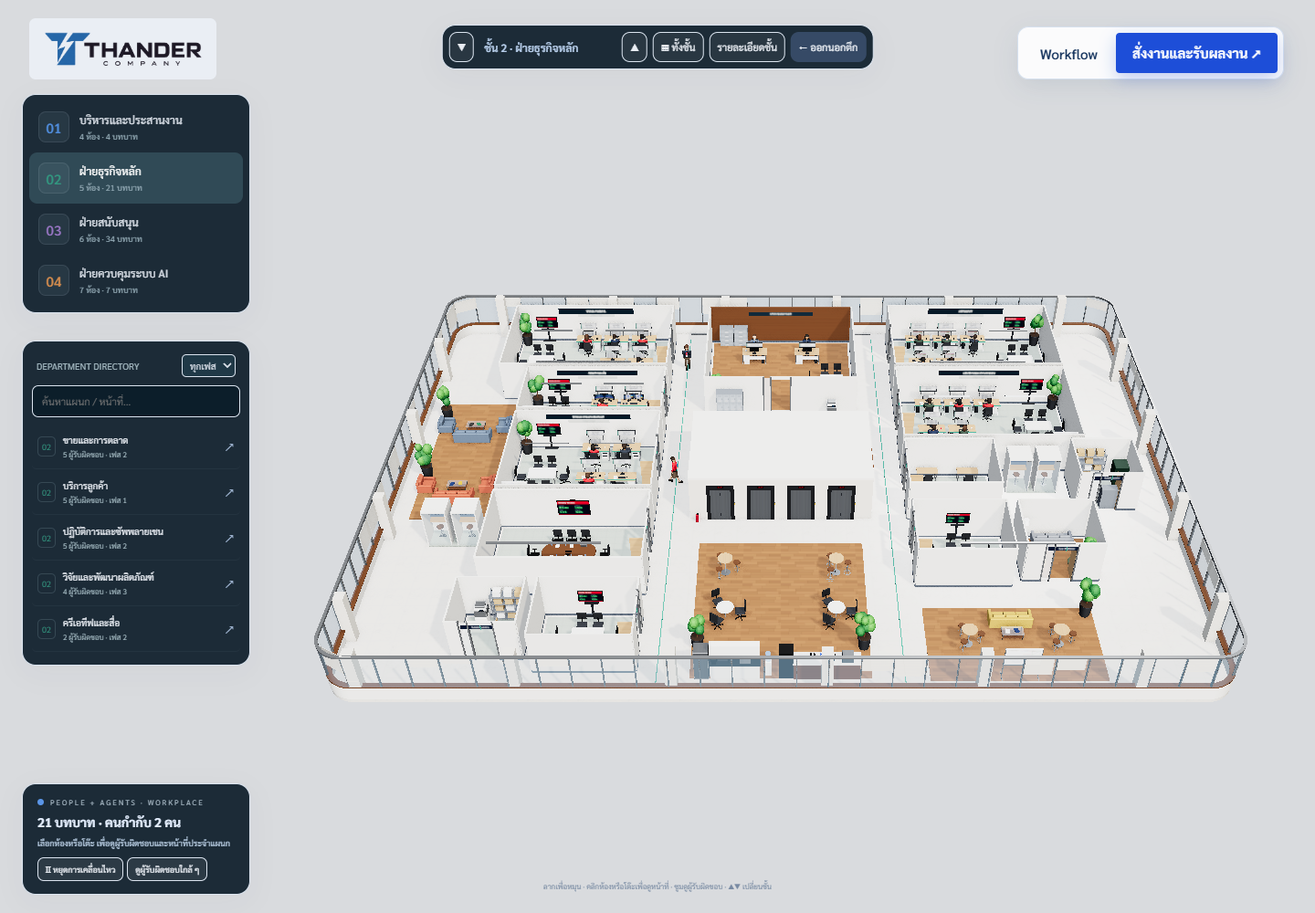
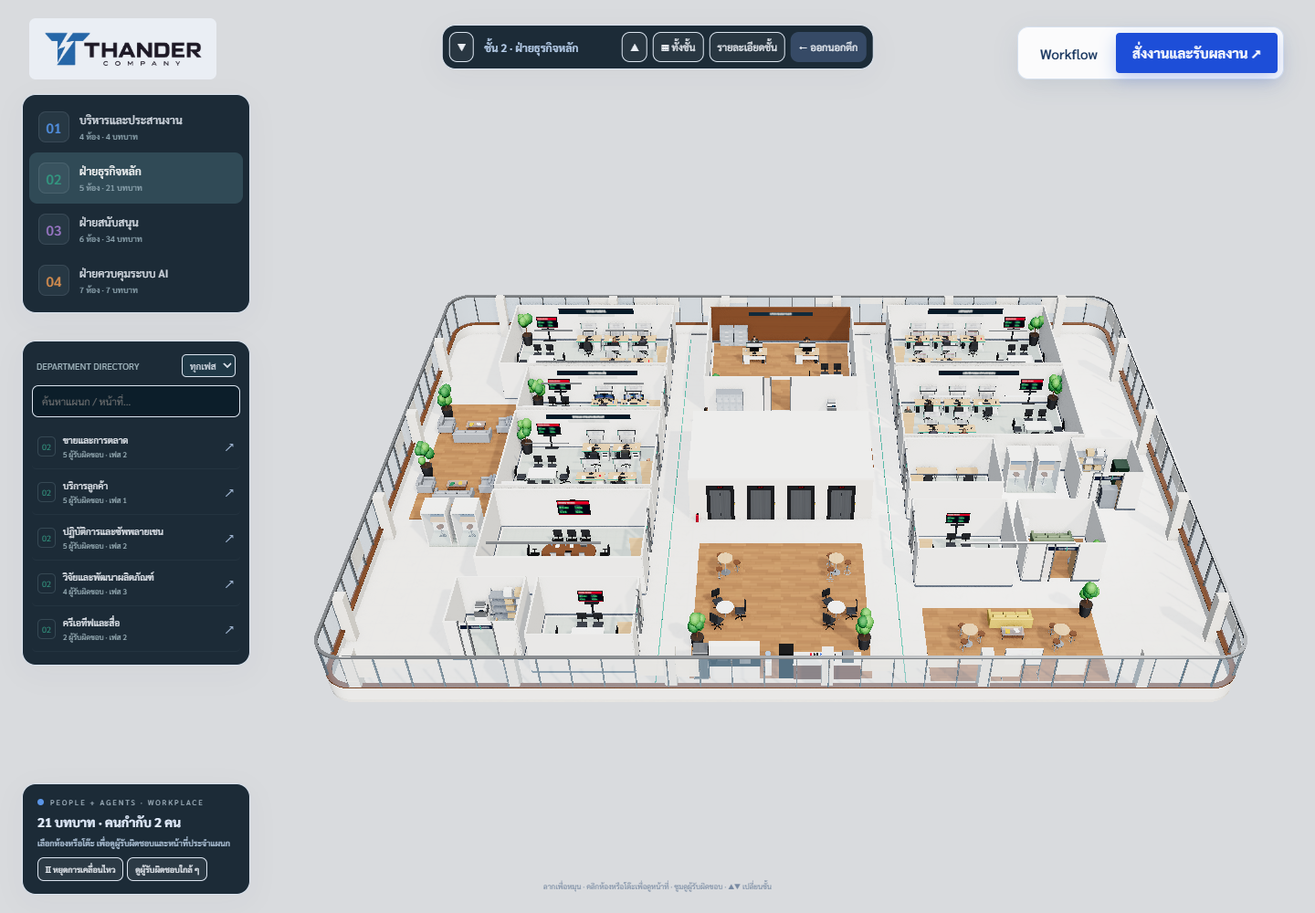
Show realistic human staff in THANDER campus

diff --git a/Portfolio.html b/Portfolio.html
@@ -3439,13 +3439,13 @@ a:focus-visible, button:focus-visible, input:focus-visible { outline: 2px solid 
         <!-- Slide 6: THANDER Company -->
         <div class="proj-slide" style="min-width:100%;overflow-y:auto;max-height:calc(90vh - 130px);">
           <div style="width:100%;aspect-ratio:600/225;background:#172d4c;overflow:hidden;position:relative;">
-            <img src="images/projects/thander-company.png" width="1440" height="1000" loading="lazy" alt="THANDER Company — พนักงาน 3D แบบเกม อาคารมีผิววัสดุ ต้นไม้ รถยนต์ และถนนที่มีมิติ" style="width:100%;height:100%;object-fit:cover;object-position:center 47%;">
+            <img src="images/projects/thander-company.png" width="1440" height="1000" loading="lazy" alt="THANDER Company — พนักงานโมเดลคน 3D อาคารมีผิววัสดุ ต้นไม้ รถยนต์ และถนนที่มีมิติ" style="width:100%;height:100%;object-fit:cover;object-position:center 47%;">
             <span style="position:absolute;bottom:12px;left:16px;background:#152b32ed;padding:6px 10px;border-radius:6px;font-size:0.6rem;letter-spacing:0.1em;color:#c5daff;">4 FLOORS · 12 DEPARTMENTS · 66 ROLES</span>
           </div>
           <div style="padding:1.75rem;">
             <span style="display:inline-block;font-size:0.68rem;font-weight:700;letter-spacing:0.12em;color:#93bfff;border:1px solid #93bfff44;border-radius:99px;padding:0.25rem 0.75rem;margin-bottom:1rem;">3D Campus · Workflow · CEO Workspace</span>
             <h3 class="bento-title" style="margin-bottom:0.65rem;">THANDER Company</h3>
-            <p style="font-size:0.9rem;line-height:1.85;color:rgba(248,250,252,0.72);margin:0 0 1.25rem;">สำนักงานใหญ่ 3D ออกแบบใหม่ระดับบริษัทชั้นนำ 4 ชั้น 12 ฝ่าย 66 บทบาท ขนาดห้องตามมาตรฐานออฟฟิศจริง มีล็อบบี้ ห้องประชุมชั้นละห้อง (12/8/6 ที่นั่ง) ผนังห้องและผนังอาคารแบบทึบ Phone Booth และ Café ทุกชั้น พนักงานเดินไปมาระหว่างแผนกตลอดเวลา และหน้าแรกมีคนเดินเข้า–ออกอาคาร พนักงานทุกคนมีชื่อและชื่อเล่น (สมมติ) บนป้ายตั้งสองหน้าขนาดใหญ่ ตัวละคร 3D รูปทรงแบบเกม มีรูปหน้า กราม ทรงผม ปกเสื้อ สูท มือ รองเท้า และบัตรพนักงานสีน้ำเงิน พร้อมต้นไม้พุ่มหลายชั้นที่มีกิ่งและใบ รถตัวถังโค้งพร้อมล้อ กระจก และไฟ ถนนแอสฟัลต์มีขอบทางและท่อระบายน้ำ ผิวหิน คอนกรีต ไม้ หญ้า และกระจกอาคารมีรายละเอียด แสงและเงาช่วยแสดงความลึก และมีบทสนทนาขึ้นเป็นข้อความทุกครั้งที่เดินมารับหรือส่งงานกับ CEO พร้อมคติ “คิดให้ไกล สร้างให้จริง ก้าวสู่อนาคต” ปรับอาคารเป็น 44×32 เมตร ห้องและโต๊ะมีขนาดตามจำนวนคน เพิ่มฝ่ายครีเอทีฟและสื่อชั้น 2 พร้อมกราฟิกดีไซเนอร์และนักตัดต่อวิดีโอ มีโต๊ะ จอออกแบบและไทม์ไลน์ประจำตัว พับกรอบรายละเอียดเพื่อเห็นผังภายในครบทุกชั้น เปิดดูแผนกและหน้าที่ได้เมื่อต้องการ มีคู่มือขั้นตอนการทำงานแบบทางการ 8 หัวข้อ (สถานะงาน หน้าที่ทุกฝ่าย วิธีเขียนโจทย์ แบบทดสอบ) และไดอะแกรม SVG อธิบายการทำงาน มีระบบฝากอนุมัติให้ผู้รักษาการ (G-01) ใช้ AI ตรวจและอนุมัติงานทั่วไปแทนเมื่อ CEO ไม่อยู่ โดยงานสำคัญ 7 เรื่องและงานกฎหมายยังรอ CEO และ CEO ยกเลิกการอนุมัติแทนได้ทุกฝ่าย ห้อง CEO THANDER ชั้น 1 มี CEO ประจำห้องเพียงคนเดียว เมื่อสั่งงาน ตัวแทนแผนกเดินผ่านทางเดินและลิฟต์มารับโจทย์แล้วกลับโต๊ะ เมื่อผลงานพร้อมตรวจจะกลับมานำเสนอ พร้อมเปิดคำตอบและไฟล์ให้ CEO ตรวจรับ มีปุ่มลองฉากตัวอย่างโดยไม่เรียก AI เชื่อมพื้นที่ทำงานส่วนตัว มีตัวเลขสรุป ค้นหา กรอง ลบงาน และกู้คืนจากถังขยะ สั่งงานครีเอทีฟได้เป็นแบบกราฟิก HTML, Storyboard และแผนตัดต่อ (ยังไม่เรนเดอร์ MP4) พร้อมสั่งงาน Claude Opus 5.5 ขอแก้ไข ตรวจรับ และดาวน์โหลดไฟล์ภาษาไทยสำหรับ Excel กำหนดวันรับงานแบบวัน/เดือน/ปี พ.ศ. เช่น 21/10/2569 แนบเอกสารอ้างอิงสูงสุด 3 ไฟล์ รวม 10 MB ผ่านพื้นที่ส่วนตัว พร้อมแสดงขนาดและความคืบหน้า มีตัวอย่างแผนคอนเทนต์ 7 วันให้ทดลองโดยไม่ใช้ AI ส่วนงาน AI จริงใช้โควต้า Free Tier ของโปรเจกต์ Google ที่ไม่เปิด Billing และไม่สลับไป OpenAI</p>
+            <p style="font-size:0.9rem;line-height:1.85;color:rgba(248,250,252,0.72);margin:0 0 1.25rem;">สำนักงานใหญ่ 3D ออกแบบใหม่ระดับบริษัทชั้นนำ 4 ชั้น 12 ฝ่าย 66 บทบาท ขนาดห้องตามมาตรฐานออฟฟิศจริง มีล็อบบี้ ห้องประชุมชั้นละห้อง (12/8/6 ที่นั่ง) ผนังห้องและผนังอาคารแบบทึบ Phone Booth และ Café ทุกชั้น พนักงานเดินไปมาระหว่างแผนกตลอดเวลา และหน้าแรกมีคนเดินเข้า–ออกอาคาร พนักงานทุกคนมีชื่อและชื่อเล่น (สมมติ) บนป้ายตั้งสองหน้าขนาดใหญ่ พนักงานใช้โมเดลคน 3D แบบมีโครงกระดูกและผิวต่อเนื่อง มีสรีระ ใบหน้า ผิวหนัง ทรงผม สูท มือและรองเท้า จาก Microsoft Rocketbox (MIT) ตัวนั่งและตัวเดินคงรูปลักษณ์คนเดียวกัน พร้อมต้นไม้พุ่มหลายชั้นที่มีกิ่งและใบ รถตัวถังโค้งพร้อมล้อ กระจก และไฟ ถนนแอสฟัลต์มีขอบทางและท่อระบายน้ำ ผิวหิน คอนกรีต ไม้ หญ้า และกระจกอาคารมีรายละเอียด แสงและเงาช่วยแสดงความลึก และมีบทสนทนาขึ้นเป็นข้อความทุกครั้งที่เดินมารับหรือส่งงานกับ CEO พร้อมคติ “คิดให้ไกล สร้างให้จริง ก้าวสู่อนาคต” ปรับอาคารเป็น 44×32 เมตร ห้องและโต๊ะมีขนาดตามจำนวนคน เพิ่มฝ่ายครีเอทีฟและสื่อชั้น 2 พร้อมกราฟิกดีไซเนอร์และนักตัดต่อวิดีโอ มีโต๊ะ จอออกแบบและไทม์ไลน์ประจำตัว พับกรอบรายละเอียดเพื่อเห็นผังภายในครบทุกชั้น เปิดดูแผนกและหน้าที่ได้เมื่อต้องการ มีคู่มือขั้นตอนการทำงานแบบทางการ 8 หัวข้อ (สถานะงาน หน้าที่ทุกฝ่าย วิธีเขียนโจทย์ แบบทดสอบ) และไดอะแกรม SVG อธิบายการทำงาน มีระบบฝากอนุมัติให้ผู้รักษาการ (G-01) ใช้ AI ตรวจและอนุมัติงานทั่วไปแทนเมื่อ CEO ไม่อยู่ โดยงานสำคัญ 7 เรื่องและงานกฎหมายยังรอ CEO และ CEO ยกเลิกการอนุมัติแทนได้ทุกฝ่าย ห้อง CEO THANDER ชั้น 1 มี CEO ประจำห้องเพียงคนเดียว เมื่อสั่งงาน ตัวแทนแผนกเดินผ่านทางเดินและลิฟต์มารับโจทย์แล้วกลับโต๊ะ เมื่อผลงานพร้อมตรวจจะกลับมานำเสนอ พร้อมเปิดคำตอบและไฟล์ให้ CEO ตรวจรับ มีปุ่มลองฉากตัวอย่างโดยไม่เรียก AI เชื่อมพื้นที่ทำงานส่วนตัว มีตัวเลขสรุป ค้นหา กรอง ลบงาน และกู้คืนจากถังขยะ สั่งงานครีเอทีฟได้เป็นแบบกราฟิก HTML, Storyboard และแผนตัดต่อ (ยังไม่เรนเดอร์ MP4) พร้อมสั่งงาน Claude Opus 5.5 ขอแก้ไข ตรวจรับ และดาวน์โหลดไฟล์ภาษาไทยสำหรับ Excel กำหนดวันรับงานแบบวัน/เดือน/ปี พ.ศ. เช่น 21/10/2569 แนบเอกสารอ้างอิงสูงสุด 3 ไฟล์ รวม 10 MB ผ่านพื้นที่ส่วนตัว พร้อมแสดงขนาดและความคืบหน้า มีตัวอย่างแผนคอนเทนต์ 7 วันให้ทดลองโดยไม่ใช้ AI ส่วนงาน AI จริงใช้โควต้า Free Tier ของโปรเจกต์ Google ที่ไม่เปิด Billing และไม่สลับไป OpenAI</p>
             <div style="display:flex;flex-wrap:wrap;gap:0.4rem;margin-bottom:1.5rem;">
               <span style="font-size:0.7rem;padding:0.25rem 0.7rem;border:1px solid #93bfff4d;color:#93bfff;border-radius:99px;">Three.js</span><span style="font-size:0.7rem;padding:0.25rem 0.7rem;border:1px solid #93bfff4d;color:#93bfff;border-radius:99px;">Claude Opus 5.5</span><span style="font-size:0.7rem;padding:0.25rem 0.7rem;border:1px solid #93bfff4d;color:#93bfff;border-radius:99px;">Vercel Functions</span><span style="font-size:0.7rem;padding:0.25rem 0.7rem;border:1px solid #93bfff4d;color:#93bfff;border-radius:99px;">Private Blob</span>
             </div>
@@ -3467,7 +3467,7 @@ a:focus-visible, button:focus-visible, input:focus-visible { outline: 2px solid 
               <a href="images/projects/thander-floor-plan.png" target="_blank" rel="noopener" style="color:#93bfff;font-size:0.82rem;">ดูผังชั้นขนาดห้องจริง ↗</a>
               <a href="images/projects/thander-ceo-office.png" target="_blank" rel="noopener" style="color:#93bfff;font-size:0.82rem;">ดูห้อง CEO ใหม่ ↗</a>
               <a href="images/projects/thander-nameplates.png" target="_blank" rel="noopener" style="color:#93bfff;font-size:0.82rem;">ดูป้ายชื่อโต๊ะแบบใหม่ ↗</a>
-              <a href="images/projects/thander-staff-sculpted.png" target="_blank" rel="noopener" style="color:#93bfff;font-size:0.82rem;">ดูพนักงาน 3D รูปทรงใหม่ ↗</a>
+              <a href="images/projects/thander-staff-human.png" target="_blank" rel="noopener" style="color:#93bfff;font-size:0.82rem;">ดูโมเดลพนักงานชุดใหม่ ↗</a>
               <a href="images/projects/thander-landscape-detailed.png" target="_blank" rel="noopener" style="color:#93bfff;font-size:0.82rem;">ดูต้นไม้ รถยนต์ และถนน 3D ↗</a>
               <a href="images/projects/thander-visit-dialogue.png" target="_blank" rel="noopener" style="color:#93bfff;font-size:0.82rem;">ดูบทสนทนาตอนรับ–ส่งงาน ↗</a>
               <a href="images/projects/thander-staff-names.png" target="_blank" rel="noopener" style="color:#93bfff;font-size:0.82rem;">ดูภาพป้ายชื่อพนักงาน ↗</a>

diff --git a/index.html b/index.html
@@ -3439,13 +3439,13 @@ a:focus-visible, button:focus-visible, input:focus-visible { outline: 2px solid 
         <!-- Slide 6: THANDER Company -->
         <div class="proj-slide" style="min-width:100%;overflow-y:auto;max-height:calc(90vh - 130px);">
           <div style="width:100%;aspect-ratio:600/225;background:#172d4c;overflow:hidden;position:relative;">
-            <img src="images/projects/thander-company.png" width="1440" height="1000" loading="lazy" alt="THANDER Company — พนักงาน 3D แบบเกม อาคารมีผิววัสดุ ต้นไม้ รถยนต์ และถนนที่มีมิติ" style="width:100%;height:100%;object-fit:cover;object-position:center 47%;">
+            <img src="images/projects/thander-company.png" width="1440" height="1000" loading="lazy" alt="THANDER Company — พนักงานโมเดลคน 3D อาคารมีผิววัสดุ ต้นไม้ รถยนต์ และถนนที่มีมิติ" style="width:100%;height:100%;object-fit:cover;object-position:center 47%;">
             <span style="position:absolute;bottom:12px;left:16px;background:#152b32ed;padding:6px 10px;border-radius:6px;font-size:0.6rem;letter-spacing:0.1em;color:#c5daff;">4 FLOORS · 12 DEPARTMENTS · 66 ROLES</span>
           </div>
           <div style="padding:1.75rem;">
             <span style="display:inline-block;font-size:0.68rem;font-weight:700;letter-spacing:0.12em;color:#93bfff;border:1px solid #93bfff44;border-radius:99px;padding:0.25rem 0.75rem;margin-bottom:1rem;">3D Campus · Workflow · CEO Workspace</span>
             <h3 class="bento-title" style="margin-bottom:0.65rem;">THANDER Company</h3>
-            <p style="font-size:0.9rem;line-height:1.85;color:rgba(248,250,252,0.72);margin:0 0 1.25rem;">สำนักงานใหญ่ 3D ออกแบบใหม่ระดับบริษัทชั้นนำ 4 ชั้น 12 ฝ่าย 66 บทบาท ขนาดห้องตามมาตรฐานออฟฟิศจริง มีล็อบบี้ ห้องประชุมชั้นละห้อง (12/8/6 ที่นั่ง) ผนังห้องและผนังอาคารแบบทึบ Phone Booth และ Café ทุกชั้น พนักงานเดินไปมาระหว่างแผนกตลอดเวลา และหน้าแรกมีคนเดินเข้า–ออกอาคาร พนักงานทุกคนมีชื่อและชื่อเล่น (สมมติ) บนป้ายตั้งสองหน้าขนาดใหญ่ ตัวละคร 3D รูปทรงแบบเกม มีรูปหน้า กราม ทรงผม ปกเสื้อ สูท มือ รองเท้า และบัตรพนักงานสีน้ำเงิน พร้อมต้นไม้พุ่มหลายชั้นที่มีกิ่งและใบ รถตัวถังโค้งพร้อมล้อ กระจก และไฟ ถนนแอสฟัลต์มีขอบทางและท่อระบายน้ำ ผิวหิน คอนกรีต ไม้ หญ้า และกระจกอาคารมีรายละเอียด แสงและเงาช่วยแสดงความลึก และมีบทสนทนาขึ้นเป็นข้อความทุกครั้งที่เดินมารับหรือส่งงานกับ CEO พร้อมคติ “คิดให้ไกล สร้างให้จริง ก้าวสู่อนาคต” ปรับอาคารเป็น 44×32 เมตร ห้องและโต๊ะมีขนาดตามจำนวนคน เพิ่มฝ่ายครีเอทีฟและสื่อชั้น 2 พร้อมกราฟิกดีไซเนอร์และนักตัดต่อวิดีโอ มีโต๊ะ จอออกแบบและไทม์ไลน์ประจำตัว พับกรอบรายละเอียดเพื่อเห็นผังภายในครบทุกชั้น เปิดดูแผนกและหน้าที่ได้เมื่อต้องการ มีคู่มือขั้นตอนการทำงานแบบทางการ 8 หัวข้อ (สถานะงาน หน้าที่ทุกฝ่าย วิธีเขียนโจทย์ แบบทดสอบ) และไดอะแกรม SVG อธิบายการทำงาน มีระบบฝากอนุมัติให้ผู้รักษาการ (G-01) ใช้ AI ตรวจและอนุมัติงานทั่วไปแทนเมื่อ CEO ไม่อยู่ โดยงานสำคัญ 7 เรื่องและงานกฎหมายยังรอ CEO และ CEO ยกเลิกการอนุมัติแทนได้ทุกฝ่าย ห้อง CEO THANDER ชั้น 1 มี CEO ประจำห้องเพียงคนเดียว เมื่อสั่งงาน ตัวแทนแผนกเดินผ่านทางเดินและลิฟต์มารับโจทย์แล้วกลับโต๊ะ เมื่อผลงานพร้อมตรวจจะกลับมานำเสนอ พร้อมเปิดคำตอบและไฟล์ให้ CEO ตรวจรับ มีปุ่มลองฉากตัวอย่างโดยไม่เรียก AI เชื่อมพื้นที่ทำงานส่วนตัว มีตัวเลขสรุป ค้นหา กรอง ลบงาน และกู้คืนจากถังขยะ สั่งงานครีเอทีฟได้เป็นแบบกราฟิก HTML, Storyboard และแผนตัดต่อ (ยังไม่เรนเดอร์ MP4) พร้อมสั่งงาน Claude Opus 5.5 ขอแก้ไข ตรวจรับ และดาวน์โหลดไฟล์ภาษาไทยสำหรับ Excel กำหนดวันรับงานแบบวัน/เดือน/ปี พ.ศ. เช่น 21/10/2569 แนบเอกสารอ้างอิงสูงสุด 3 ไฟล์ รวม 10 MB ผ่านพื้นที่ส่วนตัว พร้อมแสดงขนาดและความคืบหน้า มีตัวอย่างแผนคอนเทนต์ 7 วันให้ทดลองโดยไม่ใช้ AI ส่วนงาน AI จริงใช้โควต้า Free Tier ของโปรเจกต์ Google ที่ไม่เปิด Billing และไม่สลับไป OpenAI</p>
+            <p style="font-size:0.9rem;line-height:1.85;color:rgba(248,250,252,0.72);margin:0 0 1.25rem;">สำนักงานใหญ่ 3D ออกแบบใหม่ระดับบริษัทชั้นนำ 4 ชั้น 12 ฝ่าย 66 บทบาท ขนาดห้องตามมาตรฐานออฟฟิศจริง มีล็อบบี้ ห้องประชุมชั้นละห้อง (12/8/6 ที่นั่ง) ผนังห้องและผนังอาคารแบบทึบ Phone Booth และ Café ทุกชั้น พนักงานเดินไปมาระหว่างแผนกตลอดเวลา และหน้าแรกมีคนเดินเข้า–ออกอาคาร พนักงานทุกคนมีชื่อและชื่อเล่น (สมมติ) บนป้ายตั้งสองหน้าขนาดใหญ่ พนักงานใช้โมเดลคน 3D แบบมีโครงกระดูกและผิวต่อเนื่อง มีสรีระ ใบหน้า ผิวหนัง ทรงผม สูท มือและรองเท้า จาก Microsoft Rocketbox (MIT) ตัวนั่งและตัวเดินคงรูปลักษณ์คนเดียวกัน พร้อมต้นไม้พุ่มหลายชั้นที่มีกิ่งและใบ รถตัวถังโค้งพร้อมล้อ กระจก และไฟ ถนนแอสฟัลต์มีขอบทางและท่อระบายน้ำ ผิวหิน คอนกรีต ไม้ หญ้า และกระจกอาคารมีรายละเอียด แสงและเงาช่วยแสดงความลึก และมีบทสนทนาขึ้นเป็นข้อความทุกครั้งที่เดินมารับหรือส่งงานกับ CEO พร้อมคติ “คิดให้ไกล สร้างให้จริง ก้าวสู่อนาคต” ปรับอาคารเป็น 44×32 เมตร ห้องและโต๊ะมีขนาดตามจำนวนคน เพิ่มฝ่ายครีเอทีฟและสื่อชั้น 2 พร้อมกราฟิกดีไซเนอร์และนักตัดต่อวิดีโอ มีโต๊ะ จอออกแบบและไทม์ไลน์ประจำตัว พับกรอบรายละเอียดเพื่อเห็นผังภายในครบทุกชั้น เปิดดูแผนกและหน้าที่ได้เมื่อต้องการ มีคู่มือขั้นตอนการทำงานแบบทางการ 8 หัวข้อ (สถานะงาน หน้าที่ทุกฝ่าย วิธีเขียนโจทย์ แบบทดสอบ) และไดอะแกรม SVG อธิบายการทำงาน มีระบบฝากอนุมัติให้ผู้รักษาการ (G-01) ใช้ AI ตรวจและอนุมัติงานทั่วไปแทนเมื่อ CEO ไม่อยู่ โดยงานสำคัญ 7 เรื่องและงานกฎหมายยังรอ CEO และ CEO ยกเลิกการอนุมัติแทนได้ทุกฝ่าย ห้อง CEO THANDER ชั้น 1 มี CEO ประจำห้องเพียงคนเดียว เมื่อสั่งงาน ตัวแทนแผนกเดินผ่านทางเดินและลิฟต์มารับโจทย์แล้วกลับโต๊ะ เมื่อผลงานพร้อมตรวจจะกลับมานำเสนอ พร้อมเปิดคำตอบและไฟล์ให้ CEO ตรวจรับ มีปุ่มลองฉากตัวอย่างโดยไม่เรียก AI เชื่อมพื้นที่ทำงานส่วนตัว มีตัวเลขสรุป ค้นหา กรอง ลบงาน และกู้คืนจากถังขยะ สั่งงานครีเอทีฟได้เป็นแบบกราฟิก HTML, Storyboard และแผนตัดต่อ (ยังไม่เรนเดอร์ MP4) พร้อมสั่งงาน Claude Opus 5.5 ขอแก้ไข ตรวจรับ และดาวน์โหลดไฟล์ภาษาไทยสำหรับ Excel กำหนดวันรับงานแบบวัน/เดือน/ปี พ.ศ. เช่น 21/10/2569 แนบเอกสารอ้างอิงสูงสุด 3 ไฟล์ รวม 10 MB ผ่านพื้นที่ส่วนตัว พร้อมแสดงขนาดและความคืบหน้า มีตัวอย่างแผนคอนเทนต์ 7 วันให้ทดลองโดยไม่ใช้ AI ส่วนงาน AI จริงใช้โควต้า Free Tier ของโปรเจกต์ Google ที่ไม่เปิด Billing และไม่สลับไป OpenAI</p>
             <div style="display:flex;flex-wrap:wrap;gap:0.4rem;margin-bottom:1.5rem;">
               <span style="font-size:0.7rem;padding:0.25rem 0.7rem;border:1px solid #93bfff4d;color:#93bfff;border-radius:99px;">Three.js</span><span style="font-size:0.7rem;padding:0.25rem 0.7rem;border:1px solid #93bfff4d;color:#93bfff;border-radius:99px;">Claude Opus 5.5</span><span style="font-size:0.7rem;padding:0.25rem 0.7rem;border:1px solid #93bfff4d;color:#93bfff;border-radius:99px;">Vercel Functions</span><span style="font-size:0.7rem;padding:0.25rem 0.7rem;border:1px solid #93bfff4d;color:#93bfff;border-radius:99px;">Private Blob</span>
             </div>
@@ -3467,7 +3467,7 @@ a:focus-visible, button:focus-visible, input:focus-visible { outline: 2px solid 
               <a href="images/projects/thander-floor-plan.png" target="_blank" rel="noopener" style="color:#93bfff;font-size:0.82rem;">ดูผังชั้นขนาดห้องจริง ↗</a>
               <a href="images/projects/thander-ceo-office.png" target="_blank" rel="noopener" style="color:#93bfff;font-size:0.82rem;">ดูห้อง CEO ใหม่ ↗</a>
               <a href="images/projects/thander-nameplates.png" target="_blank" rel="noopener" style="color:#93bfff;font-size:0.82rem;">ดูป้ายชื่อโต๊ะแบบใหม่ ↗</a>
-              <a href="images/projects/thander-staff-sculpted.png" target="_blank" rel="noopener" style="color:#93bfff;font-size:0.82rem;">ดูพนักงาน 3D รูปทรงใหม่ ↗</a>
+              <a href="images/projects/thander-staff-human.png" target="_blank" rel="noopener" style="color:#93bfff;font-size:0.82rem;">ดูโมเดลพนักงานชุดใหม่ ↗</a>
               <a href="images/projects/thander-landscape-detailed.png" target="_blank" rel="noopener" style="color:#93bfff;font-size:0.82rem;">ดูต้นไม้ รถยนต์ และถนน 3D ↗</a>
               <a href="images/projects/thander-visit-dialogue.png" target="_blank" rel="noopener" style="color:#93bfff;font-size:0.82rem;">ดูบทสนทนาตอนรับ–ส่งงาน ↗</a>
               <a href="images/projects/thander-staff-names.png" target="_blank" rel="noopener" style="color:#93bfff;font-size:0.82rem;">ดูภาพป้ายชื่อพนักงาน ↗</a>

diff --git a/README.md b/README.md
@@ -43,7 +43,7 @@
 
 | Project | Description |
 |---|---|
-| [THANDER Company](https://thander-company-ai-campus.vercel.app/) | สำนักงานใหญ่ 3D ออกแบบใหม่ระดับบริษัทชั้นนำ 4 ชั้น 12 ฝ่าย 66 บทบาท (ขนาดห้องตามมาตรฐาน ล็อบบี้ ห้องประชุมชั้นละห้อง ผนังทึบ Café พนักงานเดินไปมาตลอดเวลา) พนักงานทุกคนมีชื่อ/ชื่อเล่นสมมติบนป้ายตั้งขนาดใหญ่ การ์ด และการค้นหา ตัวละคร 3D รูปทรงแบบเกม มีใบหน้า ทรงผม เสื้อผ้าและข้อต่อ พร้อมผิววัสดุอาคาร พุ่มไม้ที่มีกิ่งและใบ รถยนต์ตัวถังโค้ง ถนนแอสฟัลต์ ขอบทางและแสงเงาที่มีมิติ และบทสนทนาตอนเดินรับ–ส่งงานกับ CEO คติ “คิดให้ไกล สร้างให้จริง ก้าวสู่อนาคต” มุมมองมือถือใหญ่ขึ้น ผังทุกชั้นเห็นครบด้วยกรอบรายละเอียดที่พับได้ พร้อม [Workflow และหน้าที่แต่ละฝ่าย](https://thander-company-ai-campus.vercel.app/workflow.html#departmentDirectory) และห้องทำงาน CEO ส่วนตัวที่มีตัวเลขสรุป ค้นหาและกรองสถานะงาน ลบ/กู้คืนผ่านถังขยะ พร้อมฉากตัวแทนแผนกเดินมารับโจทย์และกลับมานำเสนอเมื่อผลงานพร้อมตรวจ พร้อมห้อง CEO THANDER ในชั้น 1 และฝ่ายครีเอทีฟและสื่อชั้น 2 (กราฟิกดีไซเนอร์/นักตัดต่อวิดีโอ) อาคาร 44×32 เมตร ห้องตามจำนวนคน สั่ง Claude Opus 5.5 ขอแก้ไข ตรวจรับ และดาวน์โหลดภาษาไทยสำหรับ Excel รวม [ตัวอย่างสั่งงานแบบไม่เรียก AI](https://thander-company-ai-campus.vercel.app/workflow.html#practiceLab) (Free Tier ต้องใช้โปรเจกต์ Google ที่ไม่เปิด Billing; โควต้าตามบัญชี) (Private source) |
+| [THANDER Company](https://thander-company-ai-campus.vercel.app/) | สำนักงานใหญ่ 3D ออกแบบใหม่ระดับบริษัทชั้นนำ 4 ชั้น 12 ฝ่าย 66 บทบาท (ขนาดห้องตามมาตรฐาน ล็อบบี้ ห้องประชุมชั้นละห้อง ผนังทึบ Café พนักงานเดินไปมาตลอดเวลา) พนักงานทุกคนมีชื่อ/ชื่อเล่นสมมติบนป้ายตั้งขนาดใหญ่ การ์ด และการค้นหา พนักงานเป็นโมเดลคน 3D จาก Microsoft Rocketbox (MIT) มีสรีระ ผิวต่อเนื่อง ใบหน้าและเสื้อผ้า พร้อมโครงกระดูกสำหรับนั่งและเดิน พร้อมผิววัสดุอาคาร พุ่มไม้ที่มีกิ่งและใบ รถยนต์ตัวถังโค้ง ถนนแอสฟัลต์ ขอบทางและแสงเงาที่มีมิติ และบทสนทนาตอนเดินรับ–ส่งงานกับ CEO คติ “คิดให้ไกล สร้างให้จริง ก้าวสู่อนาคต” มุมมองมือถือใหญ่ขึ้น ผังทุกชั้นเห็นครบด้วยกรอบรายละเอียดที่พับได้ พร้อม [Workflow และหน้าที่แต่ละฝ่าย](https://thander-company-ai-campus.vercel.app/workflow.html#departmentDirectory) และห้องทำงาน CEO ส่วนตัวที่มีตัวเลขสรุป ค้นหาและกรองสถานะงาน ลบ/กู้คืนผ่านถังขยะ พร้อมฉากตัวแทนแผนกเดินมารับโจทย์และกลับมานำเสนอเมื่อผลงานพร้อมตรวจ พร้อมห้อง CEO THANDER ในชั้น 1 และฝ่ายครีเอทีฟและสื่อชั้น 2 (กราฟิกดีไซเนอร์/นักตัดต่อวิดีโอ) อาคาร 44×32 เมตร ห้องตามจำนวนคน สั่ง Claude Opus 5.5 ขอแก้ไข ตรวจรับ และดาวน์โหลดภาษาไทยสำหรับ Excel รวม [ตัวอย่างสั่งงานแบบไม่เรียก AI](https://thander-company-ai-campus.vercel.app/workflow.html#practiceLab) (Free Tier ต้องใช้โปรเจกต์ Google ที่ไม่เปิด Billing; โควต้าตามบัญชี) (Private source) |
 | [Thander Usage](https://thander-usage.vercel.app/) | Windows desktop robot companion for Claude/Codex usage, articulated greeting and interactive web demo. [Source](https://github.com/tanakrthum254614-max/thander-usage) |
 | [Gold Signal](https://github.com/tanakrthum254614-max/gold-signal) | แพลตฟอร์มสัญญาณการซื้อขายทองคำแบบเรียลไทม์ พร้อมผลทดสอบย้อนหลังและการเปิดเผยผลการซื้อขายจริง |
 | [IT Asset Tracker](https://github.com/tanakrthum254614-max/it-asset-tracker) | ระบบทะเบียนครุภัณฑ์ไอทีพร้อมป้าย QR และการติดตามการรับประกัน |
@@ -102,4 +102,7 @@ THANDER reference upload update: up to three text/data files totaling 10 MB, wit
 Production verification on 21 October 2026 uploaded exactly 10,485,760 fixture bytes through the browser SDK to Private Blob, read the file back with a matching SHA-256 hash, verified anonymous/cross-origin rejection and denied public reads, then deleted the test blob. No actual company jobs or AI calls were made.
 
 
-THANDER visual update (21 October 2026): shared sculpted characters across all 66 roles and the CEO; locally generated surface textures; volumetric trees and leaves; detailed cars, raised kerbs and drains. New [character preview](images/projects/thander-staff-sculpted.png) and [landscape preview](images/projects/thander-landscape-detailed.png). Build/check, 65 tests and Edge desktop/mobile checks passed; no AI calls.
+THANDER visual update (21 October 2026): shared sculpted characters across all 66 roles and the CEO; locally generated surface textures; volumetric trees and leaves; detailed cars, raised kerbs and drains. New [character preview](images/projects/thander-staff-human.png) and [landscape preview](images/projects/thander-landscape-detailed.png). Build/check, 65 tests and Edge desktop/mobile checks passed; no AI calls.
+
+
+THANDER employees now use authored, textured human meshes and skeletons from Microsoft Rocketbox (MIT), preserving seated/walking identities across all 66 roles and CEO visits. The accepted campus environment is retained. [Updated human preview](images/projects/thander-staff-human.png).
